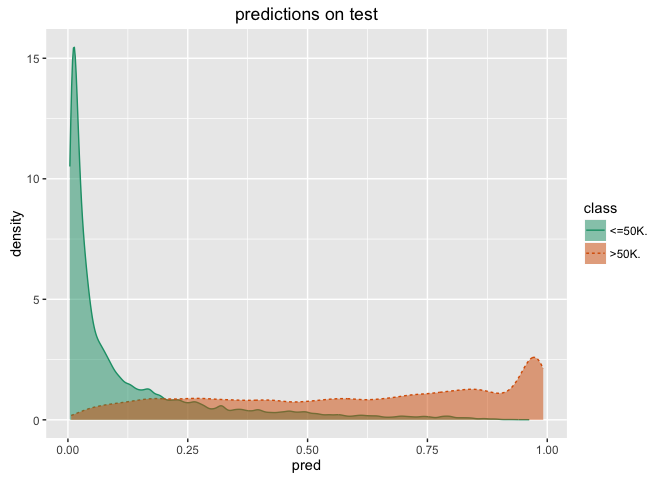
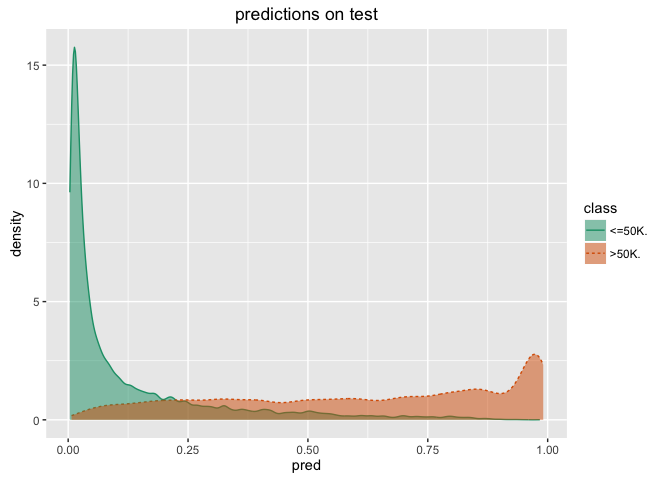
revise

diff --git a/CensusAdultIncomeExample/ExampleRun.md b/CensusAdultIncomeExample/ExampleRun.md
@@ -1,8 +1,8 @@
-Example showing the [R](https://cran.r-project.org) [vtreat](https://github.com/WinVector/vtreat) variable preparation followed by caret training.
+This article is a demonstration the use of the [R](https://cran.r-project.org) [vtreat](https://github.com/WinVector/vtreat) variable preparation package followed by [caret](http://topepo.github.io/caret/index.html) controlled training.
 
-In previous writings we have gone to great lengths to [document, explain and motivate `vtreat`](https://github.com/WinVector/vtreat). That necessarily gets long and unnecessarily feels complicated.
+In previous writings we have gone to great lengths to [document, explain and motivate `vtreat`](http://winvector.github.io/vtreathtml/). That necessarily gets long and unnecessarily feels complicated.
 
-In this example we are going to show what building a predictive model using `vtreat` best practices looks like assuming you are already in the habit if using vtreat for your data preparation step. We are deliberately not going to explain any steps, but just show the small number of steps we advise routinely using. This is a simple schematic, but not a guide. Of course we do not advise use without understanding (and we work hard to teach the concepts in our writing), but here is what small effort is required to add vtreat to your predictive modeling practice.
+In this example we are going to show what building a predictive model using `vtreat` best practices looks like assuming you were somehow already in the habit of using vtreat for your data preparation step. We are deliberately not going to explain any steps, but just show the small number of steps we advise routinely using. This is a simple schematic, but not a guide. Of course we do not advise use without understanding (and we work hard to teach the concepts in our writing), but want what small effort is required to add `vtreat` to your predictive modeling practice.
 
 First we set things up: load libraries, initialize parallel processing.
 
@@ -20,7 +20,7 @@ parallelCluster <- parallel::makeCluster(ncores)
 registerDoMC(cores=ncores)
 ```
 
-The we load our data. In our case the data is taken from [here](http://archive.ics.uci.edu/ml/machine-learning-databases/adult/) and you can perform all of these steps if you download the contents of the [example git directory](https://github.com/WinVector/Examples/tree/master/CensusAdultIncomeExample). Obviously this has a lot of moving parts (R, R Markdown, Github, R packages)- but is very easy to do a second time (first time can be a bit of learning and preparation).
+The we load our data for analysis. We are going to build a model predicting an income level from other demographic features. The data is taken from [here](http://archive.ics.uci.edu/ml/machine-learning-databases/adult/) and you can perform all of the demonstrated steps if you download the contents of the [example git directory](https://github.com/WinVector/Examples/tree/master/CensusAdultIncomeExample). Obviously this has a lot of moving parts (R, R Markdown, Github, R packages, devtools)- but is very easy to do a second time (first time can be a bit of learning and preparation).
 
 ``` r
 # load data
@@ -64,7 +64,7 @@ dTest <- read.table(
 colnames(dTest) <- colnames
 ```
 
-Now we use vtreat to prepare the data for analysis. The goal of vtreat is to ensure a ready-to-dance data frame in a statistically valid manner. We are respecting the test/train split and building our data preparation plan only on the training data (though we do apply it to the test data). This step hides a huge number of potential problems through automated repairs:
+Now we use `vtreat` to prepare the data for analysis. The goal of vtreat is to ensure a ready-to-dance data frame in a statistically valid manner. We are respecting the test/train split and building our data preparation plan only on the training data (though we do apply it to the test data). This step helps with a huge number of potential problems through automated repairs:
 
 -   re-encoding missing values
 -   dealing with large cardinality categorical variables
@@ -78,97 +78,46 @@ yName <- 'class'
 yTarget <- '>50K'
 varNames <- setdiff(colnames,yName)
 
-
 # build variable encoding plan and prepare simulated out of sample
 # training fame (cross-frame) 
 # http://www.win-vector.com/blog/2016/05/vtreat-cross-frames/
-cd <- vtreat::mkCrossFrameCExperiment(dTrain,varNames,yName,yTarget,
-                                      parallelCluster=parallelCluster)
-treatmentPlan <- cd$treatments
-scoreFrame <- treatmentPlan$scoreFrame
-dTrainTreated <- cd$crossFrame
-# pick our variables
-newVars <- scoreFrame$varName[scoreFrame$sig<1/nrow(scoreFrame)]
-dTestTreated <- vtreat::prepare(treatmentPlan,dTest,
-                                pruneSig=NULL,varRestriction=newVars)
-print(newVars)
+system.time({
+  cd <- vtreat::mkCrossFrameCExperiment(dTrain,varNames,yName,yTarget,
+                                        parallelCluster=parallelCluster)
+  scoreFrame <- cd$treatments$scoreFrame
+  dTrainTreated <- cd$crossFrame
+  # pick our variables
+  newVars <- scoreFrame$varName[scoreFrame$sig<1/nrow(scoreFrame)]
+  dTestTreated <- vtreat::prepare(cd$treatments,dTest,
+                                  pruneSig=NULL,varRestriction=newVars)
+})
 ```
 
-    ##  [1] "age_clean"                              
-    ##  [2] "workclass_lev_NA"                       
-    ##  [3] "workclass_lev_x.Federal.gov"            
-    ##  [4] "workclass_lev_x.Local.gov"              
-    ##  [5] "workclass_lev_x.Private"                
-    ##  [6] "workclass_lev_x.Self.emp.inc"           
-    ##  [7] "workclass_lev_x.Self.emp.not.inc"       
-    ##  [8] "workclass_lev_x.State.gov"              
-    ##  [9] "workclass_catP"                         
-    ## [10] "workclass_catB"                         
-    ## [11] "education_lev_x.10th"                   
-    ## [12] "education_lev_x.11th"                   
-    ## [13] "education_lev_x.Bachelors"              
-    ## [14] "education_lev_x.HS.grad"                
-    ## [15] "education_lev_x.Masters"                
-    ## [16] "education_lev_x.Some.college"           
-    ## [17] "education_catP"                         
-    ## [18] "education_catB"                         
-    ## [19] "education.num_clean"                    
-    ## [20] "marital.status_lev_x.Divorced"          
-    ## [21] "marital.status_lev_x.Married.civ.spouse"
-    ## [22] "marital.status_lev_x.Never.married"     
-    ## [23] "marital.status_lev_x.Separated"         
-    ## [24] "marital.status_lev_x.Widowed"           
-    ## [25] "marital.status_catP"                    
-    ## [26] "marital.status_catB"                    
-    ## [27] "occupation_lev_NA"                      
-    ## [28] "occupation_lev_x.Adm.clerical"          
-    ## [29] "occupation_lev_x.Exec.managerial"       
-    ## [30] "occupation_lev_x.Farming.fishing"       
-    ## [31] "occupation_lev_x.Handlers.cleaners"     
-    ## [32] "occupation_lev_x.Machine.op.inspct"     
-    ## [33] "occupation_lev_x.Other.service"         
-    ## [34] "occupation_lev_x.Prof.specialty"        
-    ## [35] "occupation_lev_x.Sales"                 
-    ## [36] "occupation_lev_x.Tech.support"          
-    ## [37] "occupation_lev_x.Transport.moving"      
-    ## [38] "occupation_catP"                        
-    ## [39] "occupation_catB"                        
-    ## [40] "relationship_lev_x.Husband"             
-    ## [41] "relationship_lev_x.Not.in.family"       
-    ## [42] "relationship_lev_x.Other.relative"      
-    ## [43] "relationship_lev_x.Own.child"           
-    ## [44] "relationship_lev_x.Unmarried"           
-    ## [45] "relationship_lev_x.Wife"                
-    ## [46] "relationship_catP"                      
-    ## [47] "relationship_catB"                      
-    ## [48] "race_lev_x.Black"                       
-    ## [49] "race_lev_x.White"                       
-    ## [50] "race_catP"                              
-    ## [51] "race_catB"                              
-    ## [52] "sex_lev_x.Female"                       
-    ## [53] "sex_lev_x.Male"                         
-    ## [54] "capital.gain_clean"                     
-    ## [55] "capital.loss_clean"                     
-    ## [56] "hours.per.week_clean"                   
-    ## [57] "native.country_lev_x.United.States"     
-    ## [58] "native.country_catP"                    
-    ## [59] "native.country_catB"
+    ##    user  system elapsed 
+    ##  11.340   2.760  30.872
+
+``` r
+#print(newVars)
+```
 
 Now we train our model. In this case we are using the caret package to tune parameters.
 
 ``` r
 # train our model using caret
-yForm <- as.formula(paste(yName,paste(newVars,collapse=' + '),sep=' ~ '))
-# from: http://topepo.github.io/caret/training.html
-fitControl <- trainControl(## 10-fold CV
-  method = "cv",
-  number = 3)
-model <- train(yForm,
-               data = dTrainTreated,
-               method = "gbm",
-               trControl = fitControl,
-               verbose = FALSE)
-print(model)
+system.time({
+  yForm <- as.formula(paste(yName,paste(newVars,collapse=' + '),sep=' ~ '))
+  # from: http://topepo.github.io/caret/training.html
+  fitControl <- trainControl(## 10-fold CV
+    method = "cv",
+    number = 3)
+  model <- train(yForm,
+                 data = dTrainTreated,
+                 method = "gbm",
+                 trControl = fitControl,
+                 verbose = FALSE)
+  print(model)
+  dTest$pred <- predict(model,newdata=dTestTreated,type='prob')[,yTarget]
+})
 ```
 
     ## Stochastic Gradient Boosting 
@@ -179,19 +128,19 @@ print(model)
     ## 
     ## No pre-processing
     ## Resampling: Cross-Validated (3 fold) 
-    ## Summary of sample sizes: 21708, 21707, 21707 
+    ## Summary of sample sizes: 21707, 21708, 21707 
     ## Resampling results across tuning parameters:
     ## 
     ##   interaction.depth  n.trees  Accuracy   Kappa    
-    ##   1                   50      0.8476091  0.5069744
-    ##   1                  100      0.8549799  0.5541129
-    ##   1                  150      0.8569454  0.5683597
-    ##   2                   50      0.8560548  0.5601591
-    ##   2                  100      0.8598016  0.5828506
-    ##   2                  150      0.8625042  0.5936928
-    ##   3                   50      0.8590645  0.5767326
-    ##   3                  100      0.8636098  0.5966290
-    ##   3                  150      0.8656368  0.6056444
+    ##   1                   50      0.8476398  0.5083558
+    ##   1                  100      0.8556555  0.5561726
+    ##   1                  150      0.8577746  0.5699958
+    ##   2                   50      0.8560855  0.5606650
+    ##   2                  100      0.8593102  0.5810931
+    ##   2                  150      0.8625042  0.5930111
+    ##   3                   50      0.8593717  0.5789289
+    ##   3                  100      0.8649919  0.6017707
+    ##   3                  150      0.8660975  0.6073645
     ## 
     ## Tuning parameter 'shrinkage' was held constant at a value of 0.1
     ## 
@@ -200,11 +149,12 @@ print(model)
     ## The final values used for the model were n.trees = 150,
     ##  interaction.depth = 3, shrinkage = 0.1 and n.minobsinnode = 10.
 
-Finally we take a look at the results on the held-out data.
+    ##    user  system elapsed 
+    ##  61.908   2.227  36.850
+
+Finally we take a look at the results on the held-out test data.
 
 ``` r
-# apply predictions and plot
-dTest$pred <- predict(model,newdata=dTestTreated,type='prob')[,yTarget]
 WVPlots::ROCPlot(dTest,'pred',yName,'predictions on test')
 ```
 
@@ -223,26 +173,26 @@ print(confusionMatrix)
 
     ##         pred
     ## truth    FALSE  TRUE
-    ##   <=50K. 11747   688
-    ##   >50K.   1452  2394
+    ##   <=50K. 11684   751
+    ##   >50K.   1406  2440
 
 ``` r
 testAccuarcy <- (confusionMatrix[1,1]+confusionMatrix[2,2])/sum(confusionMatrix)
 testAccuarcy
 ```
 
-    ## [1] 0.8685584
+    ## [1] 0.8675143
 
 Notice the achieved test accuracy is in the ballpark of what was reported for this dataset.
 
-    (From http://archive.ics.uci.edu/ml/machine-learning-databases/adult/adult.names )
+    (From [adult.names description](http://archive.ics.uci.edu/ml/machine-learning-databases/adult/adult.names) )
     Error Accuracy reported as follows, after removal of unknowns from
      |    train/test sets):
      |    C4.5       : 84.46+-0.30
      |    Naive-Bayes: 83.88+-0.30
      |    NBTree     : 85.90+-0.28
 
-We can also compare accuracy on "complete cases":
+We can also compare accuracy on the "complete cases":
 
 ``` r
 dTestComplete <- dTest[complete.cases(dTest[,varNames]),]
@@ -253,8 +203,8 @@ print(confusionMatrixComplete)
 
     ##         pred
     ## truth    FALSE  TRUE
-    ##   <=50K. 10681   679
-    ##   >50K.   1378  2322
+    ##   <=50K. 10618   742
+    ##   >50K.   1331  2369
 
 ``` r
 testAccuarcyComplete <- (confusionMatrixComplete[1,1]+confusionMatrixComplete[2,2])/
@@ -262,21 +212,19 @@ testAccuarcyComplete <- (confusionMatrixComplete[1,1]+confusionMatrixComplete[2,
 testAccuarcyComplete
 ```
 
-    ## [1] 0.863413
-
-This is consistent with our experience that missingness is often informative, so in addition to imputing missing values you would like to preserver some notation indicating the missingness (which `vtreat` does in fact do).
-
-And that is all there is to this example. I'd like to emphasize that vtreat steps were only a few lines in one of the blocks of code. By design it is easy to add vtreat to your predictive analytics projects.
-
-The point is we got competitive results on real world data, in a single try (using vtreat to prepare data and caret to tune parameters). The job of the data scientist is to work longer on a problem and do better. But having a good start helps.
-
-The theory behind vtreat is fairly important and we would love for you to read through some of it: \* [vtreat: designing a package for variable treatment](http://www.win-vector.com/blog/2014/08/vtreat-designing-a-package-for-variable-treatment/) \* [vtreat Cross Frames](http://www.win-vector.com/blog/2016/05/vtreat-cross-frames/) \* [On Nested Models](http://www.win-vector.com/blog/2016/04/on-nested-models/) \* [vtreat manuals](http://winvector.github.io/vtreathtml/) \* [vtreat on Cran](https://cran.r-project.org/package=vtreat) \* [vtreat on Github](https://github.com/WinVector/vtreat)
-
-But operationally, please think of it as just adding a couple of lines to your analysis scripts.
-
-(Lastly clean up!)
+    ## [1] 0.8623506
 
 ``` r
 # clean up
 parallel::stopCluster(parallelCluster)
 ```
+
+This is consistent with our experience that missingness is often actually informative, so in addition to imputing missing values you would like to preserver some notation indicating the missingness (which `vtreat` does in fact do).
+
+And that is all there is to this example. I'd like to emphasize that vtreat steps were only a few lines in one of the blocks of code. `vtreat` treatment can take some time, but it is usually bearable. By design it is easy to add vtreat to your predictive analytics projects.
+
+The point is: we got competitive results on real world data, in a single try (using vtreat to prepare data and caret to tune parameters). The job of the data scientist is to actually work longer on a problem and do better. But having a good start helps.
+
+The theory behind vtreat is fairly important to the correctness of our implementation, and we would love for you to read through some of it: \* [vtreat: designing a package for variable treatment](http://www.win-vector.com/blog/2014/08/vtreat-designing-a-package-for-variable-treatment/) \* [vtreat Cross Frames](http://www.win-vector.com/blog/2016/05/vtreat-cross-frames/) \* [On Nested Models](http://www.win-vector.com/blog/2016/04/on-nested-models/) \* [vtreat manuals](http://winvector.github.io/vtreathtml/) \* [vtreat on Cran](https://cran.r-project.org/package=vtreat) \* [vtreat on Github](https://github.com/WinVector/vtreat)
+
+But operationally, please think of `vtreat` as just adding a couple of lines to your analysis scripts. Again, the raw R markdown source can be found [here](https://github.com/WinVector/Examples/blob/master/CensusAdultIncomeExample/ExampleRun.Rmd) and a rendered copy (with results and graphs) [here](https://github.com/WinVector/Examples/blob/master/CensusAdultIncomeExample/ExampleRun.md).
